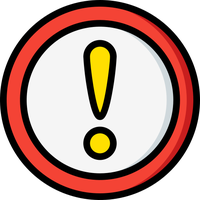
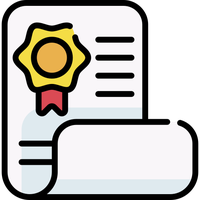
Corregir íconos mal asignados y ajustar textos del home
- icon-preguntas.png ahora es el ícono correcto (signos de interrogación
  + cita), no la foto de equipo que quedó copiada por error.
- Corrige el cruce entre icon-normativa.png e icon-alerta.png.
- Quiénes somos: quita "En NAVAM" del arranque del párrafo.
- Reescribe el subtítulo de "Nuestro servicio destacado" para dejar claro
  que es un solo servicio con varias partes, no un menú de servicios.

diff --git a/index.html b/index.html
@@ -95,7 +95,7 @@
       </div>
       <div>
         <h2>Quiénes somos</h2>
-        <p>En <strong>NAVAM</strong> somos una consultora especializada en el bienestar, desarrollo y fortalecimiento del potencial humano. Nuestro equipo está conformado por tres psicólogas y una fonoaudióloga, profesionales comprometidas con la promoción de la salud mental, el desarrollo de habilidades comunicativas y la mejora de la calidad de vida de personas, grupos y organizaciones.</p>
+        <p>Somos una consultora especializada en el bienestar, desarrollo y fortalecimiento del potencial humano. Nuestro equipo está conformado por tres psicólogas y una fonoaudióloga, profesionales comprometidas con la promoción de la salud mental, el desarrollo de habilidades comunicativas y la mejora de la calidad de vida de personas, grupos y organizaciones.</p>
         <a href="index.html#contacto" class="btn btn-primary">Contáctanos</a>
       </div>
     </div>
@@ -104,7 +104,7 @@
   <section class="section section-muted">
     <div class="container">
       <h2>Nuestro servicio destacado</h2>
-      <p class="section-intro">Un menú de servicios alrededor de las brigadas de emergencia dentro del SG-SST.</p>
+      <p class="section-intro">Conoce más sobre nuestro único servicio: todo lo relacionado con las brigadas de emergencia en el SG-SST y la importancia que tienen a nivel empresarial.</p>
 
       <div class="card-grid">
         <a class="card" href="brigadas-que-son.html">
